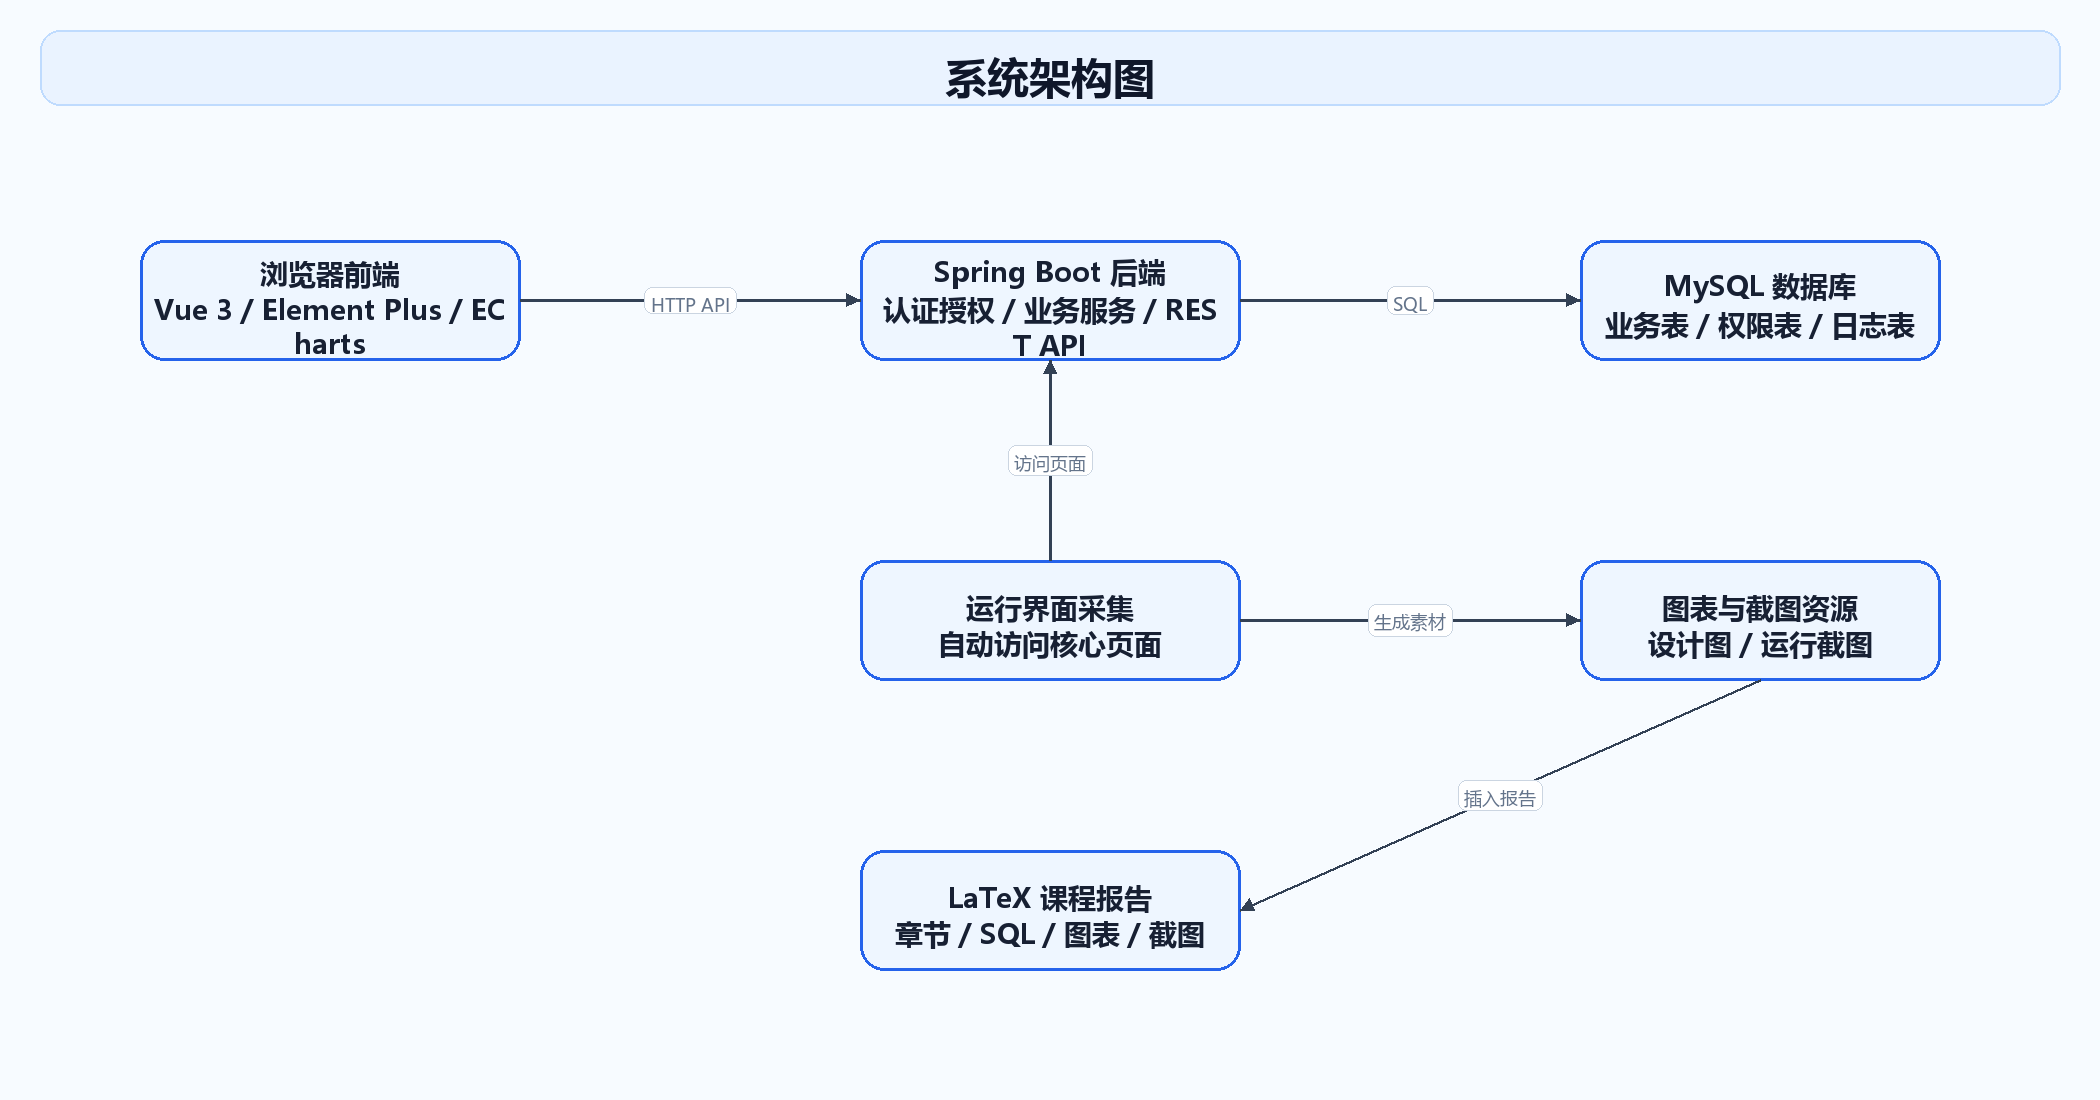
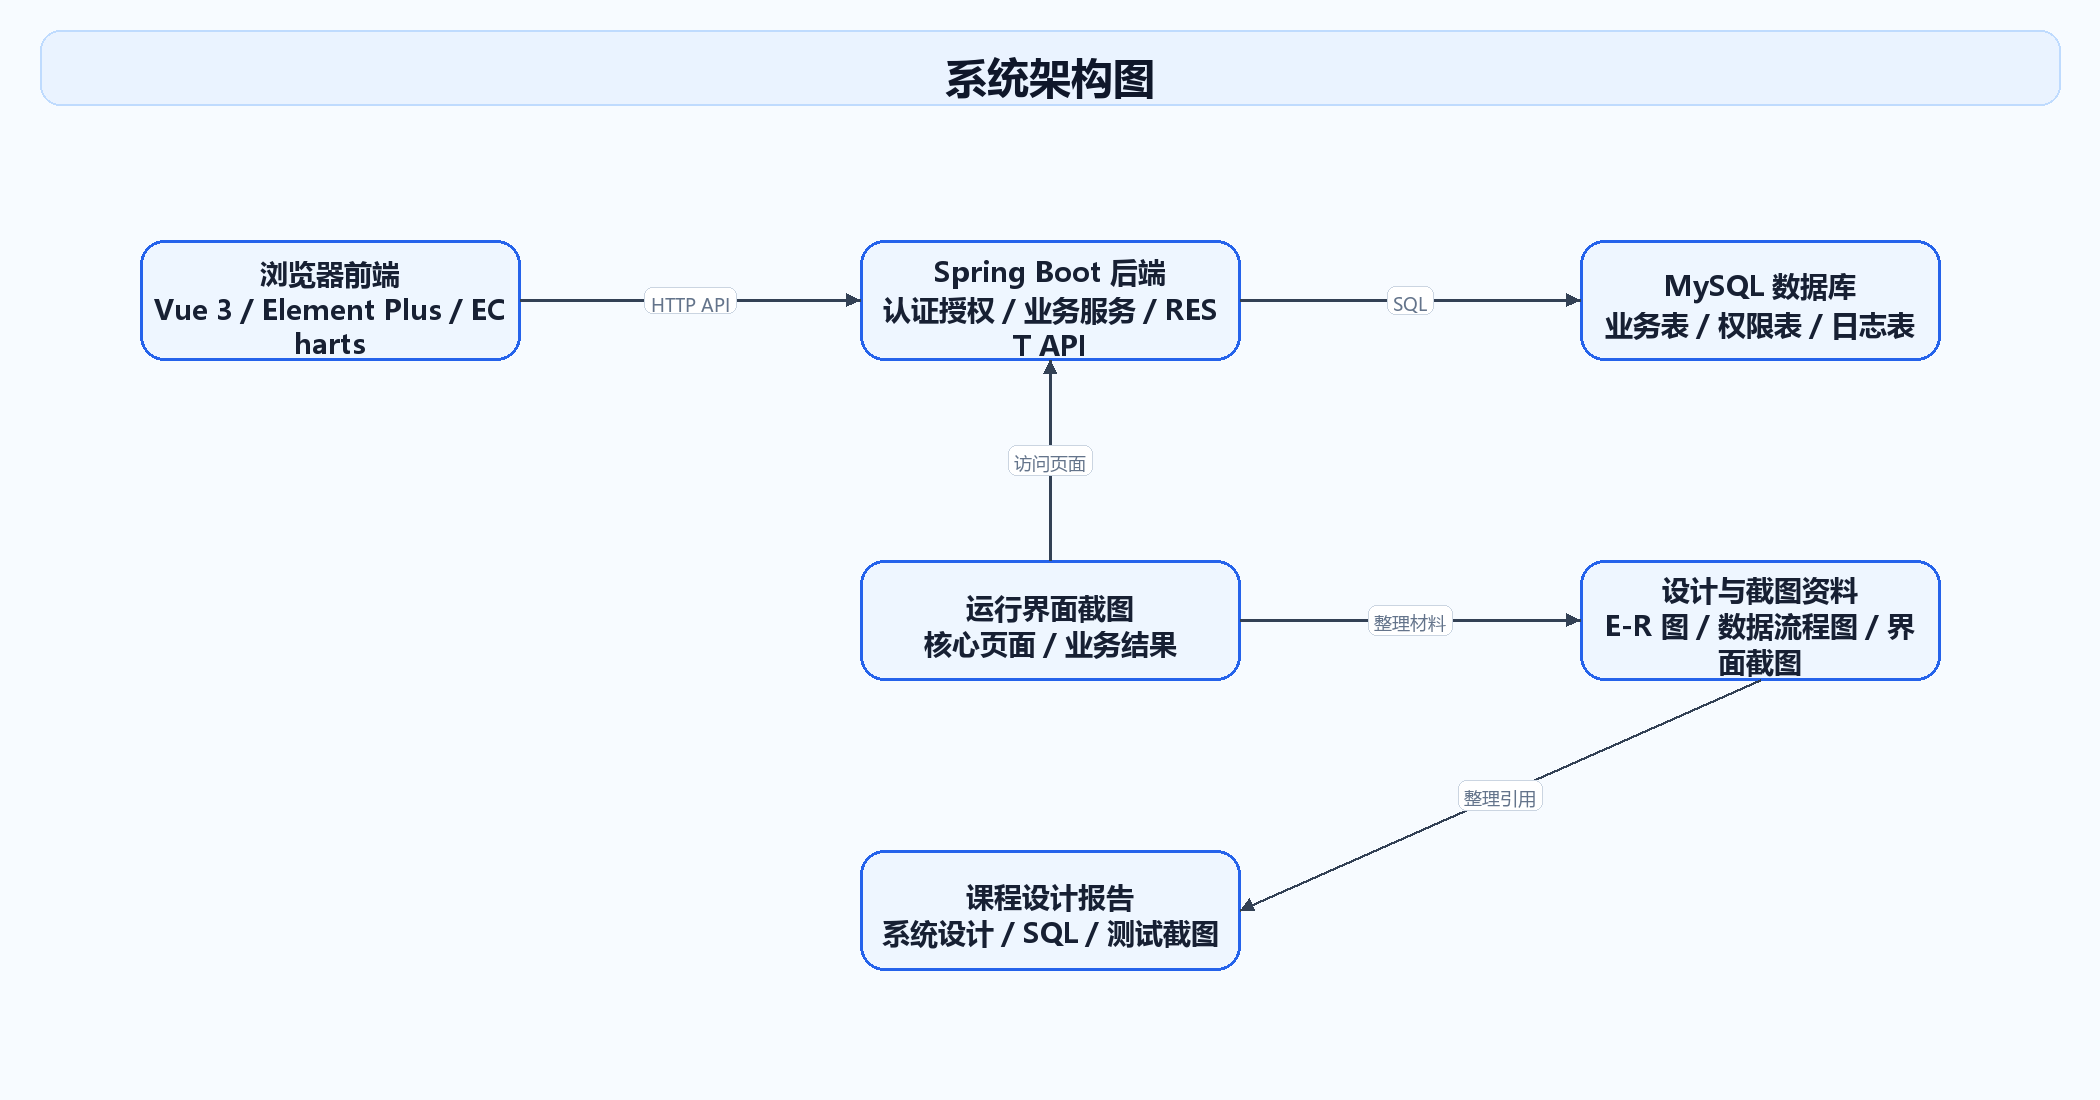
update

diff --git a/project/report-latex/chapters/03_system_design.tex b/project/report-latex/chapters/03_system_design.tex
@@ -3,7 +3,7 @@
 系统设计将需求分析结果转换为可实现的数据模型和系统结构。本章包括概念结构设计、E-R 图、逻辑结构设计、关系模式、系统功能模块图和其它设计图，保证概念模型、逻辑结构、系统接口和运行界面之间保持一致。
 
 \subsection{概念结构设计说明}
-概念结构设计阶段从业务流程中抽取实体和联系。核心业务实体包括 visitor、visit\_apply、approval\_record、pass\_code、access\_record、blacklist、campus\_gate 等；权限实体包括 sys\_user、sys\_role、sys\_permission 以及用户角色、角色权限中间表；支撑实体包括 notice、operation\_log、dict\_type、dict\_item、screenshot\_record 和 report\_record。设计时将“访客提交预约”作为主线，确保每个实体都能在核心流程中找到业务来源。
+概念结构设计阶段主要根据访客预约、审批流转、门岗通行和统计查询等业务过程抽取实体与联系。核心业务部分包括访客、预约申请、审批记录、通行凭证、出入校记录、黑名单和校门等实体；权限管理部分包括系统用户、角色、权限及其授权关系；系统支撑部分包括通知消息、操作日志、数据字典、截图记录和材料归档记录等实体。各实体围绕“访客提交预约申请”这一主线展开，能够覆盖从预约提交、审批确认、通行核验到访问归档的完整过程。
 \begin{longtable}{>{\raggedright\arraybackslash}p{0.300\textwidth}>{\raggedright\arraybackslash}p{0.640\textwidth}}
 \caption{主要实体及存在原因}\\
 \toprule
@@ -74,39 +74,24 @@ operation\_log & 保存关键业务操作日志，支撑审计和测试说明。
 \end{figure}
 \subsection{逻辑结构设计说明}
 逻辑结构设计将概念实体转换为 MySQL 关系表。实体表统一使用 \texttt{id} 作为主键，时间字段统一使用 \texttt{create\_time}、\texttt{update\_time}，软删除字段统一使用 \texttt{deleted}。多对多关系通过 sys\_user\_role 和 sys\_role\_permission 中间表表达；一对多关系通过外键字段或业务关联字段表达；预约、审批、通行和出入校状态通过状态字段表达。
-\begin{longtable}{>{\raggedright\arraybackslash}p{0.300\textwidth}>{\raggedright\arraybackslash}p{0.460\textwidth}>{\raggedright\arraybackslash}p{0.180\textwidth}}
-\caption{逻辑表结构摘要}\\
+\begin{longtable}{>{\raggedright\arraybackslash}p{0.140\textwidth}>{\raggedright\arraybackslash}p{0.270\textwidth}>{\raggedright\arraybackslash}p{0.360\textwidth}>{\raggedright\arraybackslash}p{0.170\textwidth}}
+\caption{主要关系表设计摘要}\\
 \toprule
-表名 & 关键字段摘要 & 说明 \\
+设计分组 & 主要关系表 & 设计重点 & 主要约束 \\
 \midrule
-系统用户表 & id BIGINT；username VARCHAR(50)；password\_hash VARCHAR(255)；real\_name VARCHAR(50)；phone VARCHAR(20)；email VARCHAR(100)；department\_id BIGINT；user\_type VARCHAR(30) & 数据库物理表，与关系模式和系统实现对象对应 \\
-角色表 & id BIGINT；role\_code VARCHAR(50)；role\_name VARCHAR(50)；role\_desc VARCHAR(255)；status VARCHAR(30)；create\_time DATETIME；update\_time DATETIME；deleted TINYINT & 数据库物理表，与关系模式和系统实现对象对应 \\
-权限表 & id BIGINT；permission\_code VARCHAR(100)；permission\_name VARCHAR(100)；permission\_type VARCHAR(30)；parent\_id BIGINT；route\_path VARCHAR(200)；component\_path VARCHAR(200)；api\_path VARCHAR(200) & 数据库物理表，与关系模式和系统实现对象对应 \\
-用户角色关联表 & id BIGINT；user\_id BIGINT；role\_id BIGINT；create\_time DATETIME；update\_time DATETIME；deleted TINYINT；PRIMARY KEY；UNIQUE KEY & 数据库物理表，与关系模式和系统实现对象对应 \\
-角色权限关联表 & id BIGINT；role\_id BIGINT；permission\_id BIGINT；create\_time DATETIME；update\_time DATETIME；deleted TINYINT；PRIMARY KEY；UNIQUE KEY & 数据库物理表，与关系模式和系统实现对象对应 \\
-部门表 & id BIGINT；parent\_id BIGINT；dept\_code VARCHAR(50)；dept\_name VARCHAR(100)；leader\_user\_id BIGINT；phone VARCHAR(20)；sort\_order INT；status VARCHAR(30) & 数据库物理表，与关系模式和系统实现对象对应 \\
-校门表 & id BIGINT；gate\_code VARCHAR(50)；gate\_name VARCHAR(100)；gate\_location VARCHAR(200)；gate\_type VARCHAR(30)；status VARCHAR(30)；remark VARCHAR(255)；create\_time DATETIME & 数据库物理表，与关系模式和系统实现对象对应 \\
-访客表 & id BIGINT；visitor\_name VARCHAR(50)；id\_type VARCHAR(30)；id\_number VARCHAR(50)；phone VARCHAR(20)；company VARCHAR(100)；gender VARCHAR(10)；visitor\_level VARCHAR(30) & 数据库物理表，与关系模式和系统实现对象对应 \\
-访客车辆表 & id BIGINT；visitor\_id BIGINT；plate\_no VARCHAR(20)；vehicle\_type VARCHAR(30)；color VARCHAR(30)；brand VARCHAR(50)；status VARCHAR(30)；create\_time DATETIME & 数据库物理表，与关系模式和系统实现对象对应 \\
-随行人员表 & id BIGINT；apply\_id BIGINT；companion\_name VARCHAR(50)；id\_type VARCHAR(30)；id\_number VARCHAR(50)；phone VARCHAR(20)；relation\_remark VARCHAR(100)；create\_time DATETIME & 数据库物理表，与关系模式和系统实现对象对应 \\
-预约申请表 & id BIGINT；apply\_no VARCHAR(50)；visitor\_id BIGINT；host\_user\_id BIGINT；department\_id BIGINT；vehicle\_id BIGINT；visit\_reason VARCHAR(255)；plan\_start\_time DATETIME & 数据库物理表，与关系模式和系统实现对象对应 \\
-审批记录表 & id BIGINT；apply\_id BIGINT；approval\_step VARCHAR(30)；approver\_user\_id BIGINT；approval\_result VARCHAR(30)；approval\_comment VARCHAR(255)；approval\_time DATETIME；sort\_order INT & 数据库物理表，与关系模式和系统实现对象对应 \\
-通行凭证表 & id BIGINT；apply\_id BIGINT；pass\_code VARCHAR(64)；qr\_content VARCHAR(500)；valid\_from DATETIME；valid\_to DATETIME；pass\_status VARCHAR(30)；used\_time DATETIME & 数据库物理表，与关系模式和系统实现对象对应 \\
-出入校记录表 & id BIGINT；apply\_id BIGINT；visitor\_id BIGINT；pass\_code\_id BIGINT；entry\_gate\_id BIGINT；exit\_gate\_id BIGINT；entry\_guard\_id BIGINT；exit\_guard\_id BIGINT & 数据库物理表，与关系模式和系统实现对象对应 \\
-黑名单表 & id BIGINT；visitor\_id BIGINT；id\_number VARCHAR(50)；phone VARCHAR(20)；reason VARCHAR(255)；level VARCHAR(30)；start\_time DATETIME；end\_time DATETIME & 数据库物理表，与关系模式和系统实现对象对应 \\
-通知消息表 & id BIGINT；receiver\_user\_id BIGINT；receiver\_type VARCHAR(30)；title VARCHAR(100)；content VARCHAR(1000)；business\_type VARCHAR(50)；business\_id BIGINT；read\_status VARCHAR(30) & 数据库物理表，与关系模式和系统实现对象对应 \\
-操作日志表 & id BIGINT；operator\_user\_id BIGINT；operator\_name VARCHAR(50)；module\_name VARCHAR(100)；operation\_type VARCHAR(50)；request\_method VARCHAR(10)；request\_url VARCHAR(255)；operation\_result VARCHAR(30) & 数据库物理表，与关系模式和系统实现对象对应 \\
-字典类型表 & id BIGINT；type\_code VARCHAR(50)；type\_name VARCHAR(100)；status VARCHAR(30)；remark VARCHAR(255)；create\_time DATETIME；update\_time DATETIME；deleted TINYINT & 数据库物理表，与关系模式和系统实现对象对应 \\
-字典项表 & id BIGINT；type\_id BIGINT；item\_code VARCHAR(50)；item\_name VARCHAR(100)；item\_value VARCHAR(100)；sort\_order INT；status VARCHAR(30)；remark VARCHAR(255) & 数据库物理表，与关系模式和系统实现对象对应 \\
-截图记录表 & id BIGINT；screenshot\_code VARCHAR(50)；page\_name VARCHAR(100)；route\_path VARCHAR(200)；role\_code VARCHAR(50)；file\_path VARCHAR(255)；description VARCHAR(255)；capture\_time DATETIME & 数据库物理表，与关系模式和系统实现对象对应 \\
-报告记录表 & id BIGINT；report\_code VARCHAR(50)；report\_name VARCHAR(100)；markdown\_path VARCHAR(255)；word\_path VARCHAR(255)；generate\_status VARCHAR(30)；generate\_time DATETIME；generated\_by BIGINT & 数据库物理表，与关系模式和系统实现对象对应 \\
+权限与组织 & 系统用户表、角色表、权限表、用户角色关联表、角色权限关联表、部门表 & 管理登录用户、部门归属、角色授权和菜单接口权限，是系统访问控制的基础。 & 用户与角色、角色与权限均采用中间表表示多对多关系。 \\
+访客基础 & 访客表、访客车辆表、随行人员表、黑名单表 & 保存访客身份、车辆、同行人员和风险名单，为预约申请和门岗核验提供基础数据。 & 访客身份、手机号、车辆和黑名单信息参与预约与核验约束。 \\
+预约审批 & 预约申请表、审批记录表、通行凭证表 & 保存从提交申请、被访人确认、部门审批到生成通行凭证的核心业务链路。 & 预约编号唯一，审批记录按环节和时间形成完整处理轨迹。 \\
+出入校管理 & 出入校记录表、校门表 & 记录门岗核验、入校登记、离校登记、当前在校和超时未离校等访问状态。 & 出入校记录关联预约、访客、通行凭证、校门和安保人员。 \\
+消息与日志 & 通知消息表、操作日志表 & 保存预约提醒、审批提醒、风险提醒和关键操作审计记录。 & 通知关联接收人和业务对象，日志记录操作人、模块和处理结果。 \\
+字典与材料 & 字典类型表、字典项表、截图记录表、报告记录表 & 维护状态、类型等基础字典，并保存课程展示材料的整理记录。 & 字典项归属于字典类型，材料记录保存编号、路径、状态和时间。 \\
 \bottomrule
 \end{longtable}
 \subsection{关系模式说明}
-系统关系模式与 MySQL 表结构一一对应。核心关系模式包括 visitor(id, visitor\_name, phone, id\_number, ...)、visit\_apply(id, apply\_no, visitor\_id, host\_user\_id, department\_id, apply\_status, access\_status, ...)、approval\_record(id, apply\_id, approval\_step, approval\_result, ...)、pass\_code(id, apply\_id, code, valid\_from, valid\_to, status, ...)、access\_record(id, apply\_id, visitor\_id, entry\_gate\_id, exit\_gate\_id, access\_status, ...)。这些关系模式既能表达实体属性，也能表达核心业务联系。
+系统关系模式由概念结构转换得到，重点保持实体、联系和业务约束之间的一致性。访客表保存校外人员身份基础信息；预约申请表保存一次访问申请，并关联访客、被访人、部门、车辆和访问时间；审批记录表保存被访人确认、部门审批等环节的处理结果；通行凭证表保存审批通过后的校验凭证和有效期；出入校记录表保存门岗核验后的入校、离校和异常状态；黑名单表用于记录限制入校或需要重点关注的风险人员。用户、角色和权限之间的多对多关系通过中间表表达，既保证权限控制清晰，也避免在单个实体中重复保存授权信息。
 
 \subsection{系统功能模块图}
-系统功能模块图按角色和业务域划分为访客端、被访人端、审批管理、门岗管理、访客记录、安全管理、统计报表、系统管理和自动化支撑等模块。
+系统功能模块图按角色和业务域划分为访客端、被访人端、审批管理、门岗管理、访客记录、安全管理、统计报表、系统管理和系统支撑等模块。
 \subsubsection{系统功能模块图}
 
 模块图展示系统功能分解及各模块边界，便于说明前端菜单、后端接口和权限控制的对应关系。
@@ -145,7 +130,7 @@ operation\_log & 保存关键业务操作日志，支撑审计和测试说明。
 
 \end{figure}\subsubsection{系统架构图}
 
-系统架构图展示浏览器前端、Spring Boot 后端、MySQL 数据库、Playwright 截图脚本和 LaTeX 报告生成脚本之间的关系。
+系统架构图展示浏览器前端、Spring Boot 后端、MySQL 数据库、运行界面截图和课程设计材料之间的关系。
 
 \begin{figure}[H]
 
@@ -166,17 +151,5 @@ operation\_log & 保存关键业务操作日志，支撑审计和测试说明。
   \includegraphics[width=0.94\textwidth]{figures/table_relation.png}
 
   \caption{数据库表关系图}
-
-\end{figure}\subsubsection{自动截图与报告生成流程图}
-
-自动化支撑流程图展示演示数据、页面截图和报告生成之间的衔接关系，说明系统如何形成可复核的课程设计材料。
-
-\begin{figure}[H]
-
-  \centering
-
-  \includegraphics[width=0.94\textwidth]{figures/automation_report_workflow.png}
-
-  \caption{自动截图与报告生成流程图}
 
 \end{figure}

diff --git a/project/scripts/generate_latex_report.py b/project/scripts/generate_latex_report.py
@@ -209,7 +209,7 @@ chapter01 += table('系统基本信息', ['项目', '内容'], [
     ['中文系统名称', '重庆邮电大学智慧访客预约与出入校管理系统'],
     ['英文系统名称', 'Smart Visitor Reservation and Campus Access Management System of Chongqing University of Posts and Telecommunications'],
     ['课程设计定位', '数据库原理期末大作业，重点展示需求分析、数据流程、E-R 建模、关系模式、SQL 查询和系统实现。'],
-    ['技术形态', 'Vue 3 前端、Spring Boot 3 后端、MySQL 8 数据库、Playwright 自动截图、LaTeX 自动报告。']
+    ['技术形态', 'Vue 3 前端、Spring Boot 3 后端、MySQL 8 数据库、运行界面截图和课程设计报告。']
 ], [0.24, 0.70])
 chapter01 += r'''
 \subsection{设计意图}
@@ -269,7 +269,7 @@ run_rows = [
     ['数据库', 'MySQL 8，InnoDB，utf8mb4 字符集。'],
     ['后端', 'JDK 17、Spring Boot 3、MyBatis Plus、JWT、Swagger/OpenAPI。'],
     ['前端', 'Node.js、Vue 3、Vite、Element Plus、Axios、Vue Router、ECharts。'],
-    ['自动化', 'Playwright 负责截图，XeLaTeX 负责编译最终报告。']
+    ['运行展示', '通过代表性页面截图记录系统主要功能的实现效果。']
 ]
 security_rows = [
     ['认证', '登录成功返回 JWT Token，后续请求携带 Authorization 请求头。'],
@@ -323,7 +323,7 @@ chapter03 = r'''
 系统设计将需求分析结果转换为可实现的数据模型和系统结构。本章包括概念结构设计、E-R 图、逻辑结构设计、关系模式、系统功能模块图和其它设计图，保证概念模型、逻辑结构、系统接口和运行界面之间保持一致。
 
 \subsection{概念结构设计说明}
-概念结构设计阶段从业务流程中抽取实体和联系。核心业务实体包括 visitor、visit\_apply、approval\_record、pass\_code、access\_record、blacklist、campus\_gate 等；权限实体包括 sys\_user、sys\_role、sys\_permission 以及用户角色、角色权限中间表；支撑实体包括 notice、operation\_log、dict\_type、dict\_item、screenshot\_record 和 report\_record。设计时将“访客提交预约”作为主线，确保每个实体都能在核心流程中找到业务来源。
+概念结构设计阶段主要根据访客预约、审批流转、门岗通行和统计查询等业务过程抽取实体与联系。核心业务部分包括访客、预约申请、审批记录、通行凭证、出入校记录、黑名单和校门等实体；权限管理部分包括系统用户、角色、权限及其授权关系；系统支撑部分包括通知消息、操作日志、数据字典、截图记录和材料归档记录等实体。各实体围绕“访客提交预约申请”这一主线展开，能够覆盖从预约提交、审批确认、通行核验到访问归档的完整过程。
 '''
 chapter03 += table('主要实体及存在原因', ['实体', '存在原因'], [
     ['visitor', '保存访客身份基础信息，避免同一访客多次预约时重复录入。'],
@@ -349,21 +349,28 @@ chapter03 += r'''
 \subsection{逻辑结构设计说明}
 逻辑结构设计将概念实体转换为 MySQL 关系表。实体表统一使用 \texttt{id} 作为主键，时间字段统一使用 \texttt{create\_time}、\texttt{update\_time}，软删除字段统一使用 \texttt{deleted}。多对多关系通过 sys\_user\_role 和 sys\_role\_permission 中间表表达；一对多关系通过外键字段或业务关联字段表达；预约、审批、通行和出入校状态通过状态字段表达。
 '''
-chapter03 += table('逻辑表结构摘要', ['表名', '关键字段摘要', '说明'], summary_rows, [0.30, 0.46, 0.18])
+logic_summary_rows = [
+    ['权限与组织', '系统用户表、角色表、权限表、用户角色关联表、角色权限关联表、部门表', '管理登录用户、部门归属、角色授权和菜单接口权限，是系统访问控制的基础。', '用户与角色、角色与权限均采用中间表表示多对多关系。'],
+    ['访客基础', '访客表、访客车辆表、随行人员表、黑名单表', '保存访客身份、车辆、同行人员和风险名单，为预约申请和门岗核验提供基础数据。', '访客身份、手机号、车辆和黑名单信息参与预约与核验约束。'],
+    ['预约审批', '预约申请表、审批记录表、通行凭证表', '保存从提交申请、被访人确认、部门审批到生成通行凭证的核心业务链路。', '预约编号唯一，审批记录按环节和时间形成完整处理轨迹。'],
+    ['出入校管理', '出入校记录表、校门表', '记录门岗核验、入校登记、离校登记、当前在校和超时未离校等访问状态。', '出入校记录关联预约、访客、通行凭证、校门和安保人员。'],
+    ['消息与日志', '通知消息表、操作日志表', '保存预约提醒、审批提醒、风险提醒和关键操作审计记录。', '通知关联接收人和业务对象，日志记录操作人、模块和处理结果。'],
+    ['字典与材料', '字典类型表、字典项表、截图记录表、报告记录表', '维护状态、类型等基础字典，并保存课程展示材料的整理记录。', '字典项归属于字典类型，材料记录保存编号、路径、状态和时间。'],
+]
+chapter03 += table('主要关系表设计摘要', ['设计分组', '主要关系表', '设计重点', '主要约束'], logic_summary_rows, [0.14, 0.27, 0.36, 0.17])
 chapter03 += r'''
 \subsection{关系模式说明}
-系统关系模式与 MySQL 表结构一一对应。核心关系模式包括 visitor(id, visitor\_name, phone, id\_number, ...)、visit\_apply(id, apply\_no, visitor\_id, host\_user\_id, department\_id, apply\_status, access\_status, ...)、approval\_record(id, apply\_id, approval\_step, approval\_result, ...)、pass\_code(id, apply\_id, code, valid\_from, valid\_to, status, ...)、access\_record(id, apply\_id, visitor\_id, entry\_gate\_id, exit\_gate\_id, access\_status, ...)。这些关系模式既能表达实体属性，也能表达核心业务联系。
+系统关系模式由概念结构转换得到，重点保持实体、联系和业务约束之间的一致性。访客表保存校外人员身份基础信息；预约申请表保存一次访问申请，并关联访客、被访人、部门、车辆和访问时间；审批记录表保存被访人确认、部门审批等环节的处理结果；通行凭证表保存审批通过后的校验凭证和有效期；出入校记录表保存门岗核验后的入校、离校和异常状态；黑名单表用于记录限制入校或需要重点关注的风险人员。用户、角色和权限之间的多对多关系通过中间表表达，既保证权限控制清晰，也避免在单个实体中重复保存授权信息。
 
 \subsection{系统功能模块图}
-系统功能模块图按角色和业务域划分为访客端、被访人端、审批管理、门岗管理、访客记录、安全管理、统计报表、系统管理和自动化支撑等模块。
+系统功能模块图按角色和业务域划分为访客端、被访人端、审批管理、门岗管理、访客记录、安全管理、统计报表、系统管理和系统支撑等模块。
 '''
 chapter03 += diagram_block('系统功能模块图', 'diagrams/system_module.mmd', '模块图展示系统功能分解及各模块边界，便于说明前端菜单、后端接口和权限控制的对应关系。', 'mmdc -i diagrams/system_module.mmd -o report-latex/figures/system_module.pdf')
 chapter03 += r'\subsection{其它设计图}'
 chapter03 += diagram_block('访客预约审批流程图', 'diagrams/visitor_workflow.mmd', '访客预约审批流程图展示从预约提交到审批通过或拒绝的状态流转，并体现黑名单拦截、被访人拒绝和部门审批拒绝等异常分支。', 'mmdc -i diagrams/visitor_workflow.mmd -o report-latex/figures/visitor_workflow.pdf')
 chapter03 += diagram_block('门岗核验入校流程图', 'diagrams/gate_check_workflow.mmd', '门岗核验流程图展示通行码核验、时间有效性检查、黑名单检查、入校登记、离校登记和超时未离校处理。', 'mmdc -i diagrams/gate_check_workflow.mmd -o report-latex/figures/gate_check_workflow.pdf')
-chapter03 += diagram_block('系统架构图', 'diagrams/system_architecture.mmd', '系统架构图展示浏览器前端、Spring Boot 后端、MySQL 数据库、Playwright 截图脚本和 LaTeX 报告生成脚本之间的关系。', 'mmdc -i diagrams/system_architecture.mmd -o report-latex/figures/system_architecture.pdf')
+chapter03 += diagram_block('系统架构图', 'diagrams/system_architecture.mmd', '系统架构图展示浏览器前端、Spring Boot 后端、MySQL 数据库、运行界面截图和课程设计材料之间的关系。', 'mmdc -i diagrams/system_architecture.mmd -o report-latex/figures/system_architecture.pdf')
 chapter03 += diagram_block('数据库表关系图', 'diagrams/table_relation.mmd', '数据库表关系图适合放入附录，用于展示主外键关系和表间依赖。', 'mmdc -i diagrams/table_relation.mmd -o report-latex/figures/table_relation.pdf')
-chapter03 += diagram_block('自动截图与报告生成流程图', 'diagrams/automation_report_workflow.mmd', '自动化支撑流程图展示演示数据、页面截图和报告生成之间的衔接关系，说明系统如何形成可复核的课程设计材料。', 'mmdc -i diagrams/automation_report_workflow.mmd -o report-latex/figures/automation_report_workflow.pdf')
 write(chapters / '03_system_design.tex', chapter03)
 
 # 04 detail design
@@ -410,20 +417,20 @@ test_rows = [
     ['TC-11', '入校登记', '核验通过后登记入校', '生成或更新 access_record，状态为已入校'],
     ['TC-12', '离校登记', '对已入校访客办理离校', '记录离校时间，禁止重复离校'],
     ['TC-13', '统计报表', '访问首页和统计报表页', '趋势、排行、状态分布等图表均有数据'],
-    ['TC-14', '运行界面采集', '执行自动化演示流程', '形成 19 张代表性运行界面截图'],
-    ['TC-15', 'LaTeX 报告', '执行 xelatex main.tex 两次', '生成 report-latex/main.pdf']
+    ['TC-14', '运行界面截图', '根据核心页面整理运行截图', '形成 19 张代表性运行界面截图'],
+    ['TC-15', '课程报告检查', '检查章节结构、图表引用和运行截图', '报告结构完整，图表和截图能够正常展示']
 ]
 platform_rows = [
     ['数据库', 'MySQL 8', '支持事务、外键、索引、utf8mb4 字符集，适合课程设计展示关系模型。'],
     ['后端', 'Spring Boot 3 + MyBatis Plus + JWT', '便于快速构建 REST API、权限认证、统一返回和数据访问层。'],
     ['前端', 'Vue 3 + Vite + Element Plus + ECharts', '适合构建课程答辩演示页面、表格表单和统计图表。'],
-    ['截图', 'Playwright / 系统 Chrome', '可自动登录系统并截图，保证报告运行界面一致。'],
-    ['报告', 'LaTeX + XeLaTeX', '中文排版稳定，适合插入长表格、SQL 代码和运行截图。']
+    ['运行截图', '浏览器截图工具', '用于采集系统代表性运行界面，展示登录、预约、审批、门岗核验、统计报表等实现效果。'],
+    ['报告撰写', '课程设计报告文档', '用于整理系统定义、需求分析、数据库设计、SQL 查询、测试结果和运行截图。']
 ]
 chapter05 = r'''
 \section{系统实现与测试}
 \subsection{本章概述}
-本章说明系统的开发平台、后端实现、前端实现、数据库实现、自动截图方案和测试结果，并插入代表性运行界面截图。截图由脚本自动生成，能够直接服务于课程设计报告和答辩展示。
+本章说明系统的开发平台、后端实现、前端实现、数据库实现和测试结果，并插入代表性运行界面截图。通过测试用例和界面展示，可以验证系统在登录认证、权限控制、访客预约、审批流转、门岗核验、出入校登记、黑名单管理和统计报表等方面的实现效果。
 
 \subsection{开发平台和工具选择}
 '''
@@ -438,11 +445,11 @@ chapter05 += r'''
 \subsection{数据库实现说明}
 数据库采用 MySQL 8 作为持久化平台，围绕用户权限、访客预约、审批流转、通行凭证、出入校记录、黑名单、通知消息和操作日志等对象建立关系表。核心表均设置主键、必要外键、业务唯一约束、索引、状态字段和时间字段，以保证数据完整性、查询效率和业务流转可追踪性。
 
-\subsection{自动截图说明}
-系统提供自动化截图能力，用于在统一演示数据基础上记录登录、首页驾驶舱、预约申请、审批处理、门岗核验、出入校登记、黑名单管理、统计报表和系统管理等代表性界面。该过程保证报告中的运行截图来自同一套业务数据，便于审查系统功能的完整性和一致性。
+\subsection{运行截图说明}
+本报告选取系统运行过程中的代表性界面作为截图材料，覆盖登录、首页驾驶舱、预约申请、审批处理、门岗核验、出入校登记、黑名单管理、统计报表和系统管理等页面。截图内容与演示数据相对应，能够直观展示系统功能完整性、页面布局和关键业务状态。
 
 \subsection{测试方法}
-测试采用数据库初始化测试、接口启动测试、前端页面测试、角色权限测试、核心流程测试、统计报表测试、自动截图测试和 LaTeX 报告编译测试相结合的方式。重点验证数据结构、业务状态、接口响应、页面展示和报告材料之间是否保持一致。
+测试采用数据库初始化测试、接口启动测试、前端页面测试、角色权限测试、核心流程测试、统计报表测试、运行界面截图检查和报告完整性检查相结合的方式。重点验证数据结构、业务状态、接口响应、页面展示和课程报告材料之间是否保持一致。
 '''
 chapter05 += table('系统测试用例摘要', ['编号', '测试名称', '操作/输入', '预期结果'], test_rows, [0.12, 0.20, 0.34, 0.28])
 chapter05 += r'''
@@ -465,9 +472,9 @@ write(chapters / '05_implementation_testing.tex', chapter05)
 
 chapter06 = r'''
 \section{总结}
-本课程设计围绕“重庆邮电大学智慧访客预约与出入校管理系统”完成了从需求分析、概念结构设计、逻辑结构设计、MySQL 建库建表、后端接口、前端页面、权限控制、核心业务流程、统计报表、自动截图到 LaTeX 报告生成的完整实践。系统以访客预约为主线，将访客信息、预约申请、审批记录、通行凭证、出入校记录、黑名单、用户权限和系统日志统一纳入数据库管理，能够较好地体现数据库系统在校园安全管理场景中的建模、约束、查询和应用价值。
+本课程设计围绕“重庆邮电大学智慧访客预约与出入校管理系统”完成了从需求分析、概念结构设计、逻辑结构设计、MySQL 建库建表、后端接口、前端页面、权限控制、核心业务流程、统计报表、运行界面截图到课程报告撰写的完整实践。系统以访客预约为主线，将访客信息、预约申请、审批记录、通行凭证、出入校记录、黑名单、用户权限和系统日志统一纳入数据库管理，能够较好地体现数据库系统在校园安全管理场景中的建模、约束、查询和应用价值。
 
-在数据库设计方面，系统明确了实体、关系、主键、外键、唯一约束、索引和状态字段，核心表结构能够覆盖从预约提交到访问归档的完整流程。在系统实现方面，后端采用 Spring Boot 3、MyBatis Plus、MySQL 和 JWT，前端采用 Vue 3、Element Plus、Axios、Vue Router 和 ECharts，页面能够展示预约、审批、核验、出入校、黑名单、统计报表和系统管理等核心功能。在自动化方面，项目提供 Playwright 截图脚本和 LaTeX 报告项目，便于将运行界面、SQL、图表和测试说明整合为最终课程设计报告。
+在数据库设计方面，系统明确了实体、关系、主键、外键、唯一约束、索引和状态字段，核心表结构能够覆盖从预约提交到访问归档的完整流程。在系统实现方面，后端采用 Spring Boot 3、MyBatis Plus、MySQL 和 JWT，前端采用 Vue 3、Element Plus、Axios、Vue Router 和 ECharts，页面能够展示预约、审批、核验、出入校、黑名单、统计报表和系统管理等核心功能。在材料整理方面，项目保留了运行界面截图、SQL 示例、设计图和测试说明，便于在课程报告中完整展示系统设计与实现结果。
 
 总体来看，本系统从数据库课程设计要求出发，完成了系统定义、需求分析、数据流程分析、概念结构设计、逻辑结构设计、SQL 详细设计、系统实现和测试验证等环节。设计结果能够覆盖校园访客预约与出入校管理的主要业务场景，报告中的图表、关系模式、SQL 查询和运行界面能够共同说明系统的数据组织方式与实际运行效果。
 '''
@@ -547,7 +554,7 @@ main = r'''
 \input{styles/report-style.tex}
 
 \title{重庆邮电大学智慧访客预约与出入校管理系统\\数据库原理课程设计报告}
-\author{姓名：蔡锦艺\\学号：2024211513\\班级：04892401\\数据库原理期末大作业}
+\author{姓名：蔡锦艺\\学号：2024211513\\班级：04892401\\本数据库系统的设计、实现与课程报告撰写均由本人独立完成\\数据库原理期末大作业}
 \date{\today}
 
 \begin{document}

diff --git a/project/report-latex/chapters/05_implementation_testing.tex b/project/report-latex/chapters/05_implementation_testing.tex
@@ -1,6 +1,6 @@
 \section{系统实现与测试}
 \subsection{本章概述}
-本章说明系统的开发平台、后端实现、前端实现、数据库实现、自动截图方案和测试结果，并插入代表性运行界面截图。截图由脚本自动生成，能够直接服务于课程设计报告和答辩展示。
+本章说明系统的开发平台、后端实现、前端实现、数据库实现和测试结果，并插入代表性运行界面截图。通过测试用例和界面展示，可以验证系统在登录认证、权限控制、访客预约、审批流转、门岗核验、出入校登记、黑名单管理和统计报表等方面的实现效果。
 
 \subsection{开发平台和工具选择}
 \begin{longtable}{>{\raggedright\arraybackslash}p{0.160\textwidth}>{\raggedright\arraybackslash}p{0.280\textwidth}>{\raggedright\arraybackslash}p{0.500\textwidth}}
@@ -11,8 +11,8 @@
 数据库 & MySQL 8 & 支持事务、外键、索引、utf8mb4 字符集，适合课程设计展示关系模型。 \\
 后端 & Spring Boot 3 + MyBatis Plus + JWT & 便于快速构建 REST API、权限认证、统一返回和数据访问层。 \\
 前端 & Vue 3 + Vite + Element Plus + ECharts & 适合构建课程答辩演示页面、表格表单和统计图表。 \\
-截图 & Playwright / 系统 Chrome & 可自动登录系统并截图，保证报告运行界面一致。 \\
-报告 & LaTeX + XeLaTeX & 中文排版稳定，适合插入长表格、SQL 代码和运行截图。 \\
+运行截图 & 浏览器截图工具 & 用于采集系统代表性运行界面，展示登录、预约、审批、门岗核验、统计报表等实现效果。 \\
+报告撰写 & 课程设计报告文档 & 用于整理系统定义、需求分析、数据库设计、SQL 查询、测试结果和运行截图。 \\
 \bottomrule
 \end{longtable}
 \subsection{后端实现说明}
@@ -24,11 +24,11 @@
 \subsection{数据库实现说明}
 数据库采用 MySQL 8 作为持久化平台，围绕用户权限、访客预约、审批流转、通行凭证、出入校记录、黑名单、通知消息和操作日志等对象建立关系表。核心表均设置主键、必要外键、业务唯一约束、索引、状态字段和时间字段，以保证数据完整性、查询效率和业务流转可追踪性。
 
-\subsection{自动截图说明}
-系统提供自动化截图能力，用于在统一演示数据基础上记录登录、首页驾驶舱、预约申请、审批处理、门岗核验、出入校登记、黑名单管理、统计报表和系统管理等代表性界面。该过程保证报告中的运行截图来自同一套业务数据，便于审查系统功能的完整性和一致性。
+\subsection{运行截图说明}
+本报告选取系统运行过程中的代表性界面作为截图材料，覆盖登录、首页驾驶舱、预约申请、审批处理、门岗核验、出入校登记、黑名单管理、统计报表和系统管理等页面。截图内容与演示数据相对应，能够直观展示系统功能完整性、页面布局和关键业务状态。
 
 \subsection{测试方法}
-测试采用数据库初始化测试、接口启动测试、前端页面测试、角色权限测试、核心流程测试、统计报表测试、自动截图测试和 LaTeX 报告编译测试相结合的方式。重点验证数据结构、业务状态、接口响应、页面展示和报告材料之间是否保持一致。
+测试采用数据库初始化测试、接口启动测试、前端页面测试、角色权限测试、核心流程测试、统计报表测试、运行界面截图检查和报告完整性检查相结合的方式。重点验证数据结构、业务状态、接口响应、页面展示和课程报告材料之间是否保持一致。
 \begin{longtable}{>{\raggedright\arraybackslash}p{0.120\textwidth}>{\raggedright\arraybackslash}p{0.200\textwidth}>{\raggedright\arraybackslash}p{0.340\textwidth}>{\raggedright\arraybackslash}p{0.280\textwidth}}
 \caption{系统测试用例摘要}\\
 \toprule
@@ -47,8 +47,8 @@ TC-10 & 门岗核验 & guard01 输入通行码或预约编号 & 返回允许/拒
 TC-11 & 入校登记 & 核验通过后登记入校 & 生成或更新 access\_record，状态为已入校 \\
 TC-12 & 离校登记 & 对已入校访客办理离校 & 记录离校时间，禁止重复离校 \\
 TC-13 & 统计报表 & 访问首页和统计报表页 & 趋势、排行、状态分布等图表均有数据 \\
-TC-14 & 运行界面采集 & 执行自动化演示流程 & 形成 19 张代表性运行界面截图 \\
-TC-15 & LaTeX 报告 & 执行 xelatex main.tex 两次 & 生成 report-latex/main.pdf \\
+TC-14 & 运行界面截图 & 根据核心页面整理运行截图 & 形成 19 张代表性运行界面截图 \\
+TC-15 & 课程报告检查 & 检查章节结构、图表引用和运行截图 & 报告结构完整，图表和截图能够正常展示 \\
 \bottomrule
 \end{longtable}
 \subsection{代表性运行界面}

diff --git a/project/scripts/generate_report_diagrams.py b/project/scripts/generate_report_diagrams.py
@@ -452,14 +452,14 @@ def system_architecture():
     c.process((140,240,520,360),'浏览器前端\nVue 3 / Element Plus / ECharts')
     c.process((860,240,1240,360),'Spring Boot 后端\n认证授权 / 业务服务 / REST API')
     c.process((1580,240,1940,360),'MySQL 数据库\n业务表 / 权限表 / 日志表')
-    c.process((860,560,1240,680),'运行界面采集\n自动访问核心页面')
-    c.process((1580,560,1940,680),'图表与截图资源\n设计图 / 运行截图')
-    c.process((860,850,1240,970),'LaTeX 课程报告\n章节 / SQL / 图表 / 截图')
+    c.process((860,560,1240,680),'运行界面截图\n核心页面 / 业务结果')
+    c.process((1580,560,1940,680),'设计与截图资料\nE-R 图 / 数据流程图 / 界面截图')
+    c.process((860,850,1240,970),'课程设计报告\n系统设计 / SQL / 测试截图')
     c.line((520,300),(860,300),label='HTTP API')
     c.line((1240,300),(1580,300),label='SQL')
     c.line((1050,560),(1050,360),label='访问页面')
-    c.line((1240,620),(1580,620),label='生成素材')
-    c.line((1760,680),(1240,910),label='插入报告')
+    c.line((1240,620),(1580,620),label='整理材料')
+    c.line((1760,680),(1240,910),label='整理引用')
     return c.save('system_architecture')
 
 

diff --git a/project/report-latex/chapters/06_summary.tex b/project/report-latex/chapters/06_summary.tex
@@ -1,6 +1,6 @@
 \section{总结}
-本课程设计围绕“重庆邮电大学智慧访客预约与出入校管理系统”完成了从需求分析、概念结构设计、逻辑结构设计、MySQL 建库建表、后端接口、前端页面、权限控制、核心业务流程、统计报表、自动截图到 LaTeX 报告生成的完整实践。系统以访客预约为主线，将访客信息、预约申请、审批记录、通行凭证、出入校记录、黑名单、用户权限和系统日志统一纳入数据库管理，能够较好地体现数据库系统在校园安全管理场景中的建模、约束、查询和应用价值。
+本课程设计围绕“重庆邮电大学智慧访客预约与出入校管理系统”完成了从需求分析、概念结构设计、逻辑结构设计、MySQL 建库建表、后端接口、前端页面、权限控制、核心业务流程、统计报表、运行界面截图到课程报告撰写的完整实践。系统以访客预约为主线，将访客信息、预约申请、审批记录、通行凭证、出入校记录、黑名单、用户权限和系统日志统一纳入数据库管理，能够较好地体现数据库系统在校园安全管理场景中的建模、约束、查询和应用价值。
 
-在数据库设计方面，系统明确了实体、关系、主键、外键、唯一约束、索引和状态字段，核心表结构能够覆盖从预约提交到访问归档的完整流程。在系统实现方面，后端采用 Spring Boot 3、MyBatis Plus、MySQL 和 JWT，前端采用 Vue 3、Element Plus、Axios、Vue Router 和 ECharts，页面能够展示预约、审批、核验、出入校、黑名单、统计报表和系统管理等核心功能。在自动化方面，项目提供 Playwright 截图脚本和 LaTeX 报告项目，便于将运行界面、SQL、图表和测试说明整合为最终课程设计报告。
+在数据库设计方面，系统明确了实体、关系、主键、外键、唯一约束、索引和状态字段，核心表结构能够覆盖从预约提交到访问归档的完整流程。在系统实现方面，后端采用 Spring Boot 3、MyBatis Plus、MySQL 和 JWT，前端采用 Vue 3、Element Plus、Axios、Vue Router 和 ECharts，页面能够展示预约、审批、核验、出入校、黑名单、统计报表和系统管理等核心功能。在材料整理方面，项目保留了运行界面截图、SQL 示例、设计图和测试说明，便于在课程报告中完整展示系统设计与实现结果。
 
 总体来看，本系统从数据库课程设计要求出发，完成了系统定义、需求分析、数据流程分析、概念结构设计、逻辑结构设计、SQL 详细设计、系统实现和测试验证等环节。设计结果能够覆盖校园访客预约与出入校管理的主要业务场景，报告中的图表、关系模式、SQL 查询和运行界面能够共同说明系统的数据组织方式与实际运行效果。

diff --git a/project/report-latex/chapters/01_system_definition.tex b/project/report-latex/chapters/01_system_definition.tex
@@ -9,7 +9,7 @@
 中文系统名称 & 重庆邮电大学智慧访客预约与出入校管理系统 \\
 英文系统名称 & Smart Visitor Reservation and Campus Access Management System of Chongqing University of Posts and Telecommunications \\
 课程设计定位 & 数据库原理期末大作业，重点展示需求分析、数据流程、E-R 建模、关系模式、SQL 查询和系统实现。 \\
-技术形态 & Vue 3 前端、Spring Boot 3 后端、MySQL 8 数据库、Playwright 自动截图、LaTeX 自动报告。 \\
+技术形态 & Vue 3 前端、Spring Boot 3 后端、MySQL 8 数据库、运行界面截图和课程设计报告。 \\
 \bottomrule
 \end{longtable}
 \subsection{设计意图}

diff --git a/project/report-latex/chapters/02_requirement_analysis.tex b/project/report-latex/chapters/02_requirement_analysis.tex
@@ -53,7 +53,7 @@ FR-10 & 系统管理 & 维护用户、角色、权限、部门、校门、字典
 数据库 & MySQL 8，InnoDB，utf8mb4 字符集。 \\
 后端 & JDK 17、Spring Boot 3、MyBatis Plus、JWT、Swagger/OpenAPI。 \\
 前端 & Node.js、Vue 3、Vite、Element Plus、Axios、Vue Router、ECharts。 \\
-自动化 & Playwright 负责截图，XeLaTeX 负责编译最终报告。 \\
+运行展示 & 通过代表性页面截图记录系统主要功能的实现效果。 \\
 \bottomrule
 \end{longtable}\subsection{安全需求}
 \begin{longtable}{>{\raggedright\arraybackslash}p{0.200\textwidth}>{\raggedright\arraybackslash}p{0.740\textwidth}}

diff --git a/project/report-latex/main.tex b/project/report-latex/main.tex
@@ -2,7 +2,7 @@
 \input{styles/report-style.tex}
 
 \title{重庆邮电大学智慧访客预约与出入校管理系统\\数据库原理课程设计报告}
-\author{姓名：蔡锦艺\\学号：2024211513\\班级：04892401\\数据库原理期末大作业}
+\author{姓名：蔡锦艺\\学号：2024211513\\班级：04892401\\本数据库系统的设计、实现与课程报告撰写均由本人独立完成\\数据库原理期末大作业}
 \date{\today}
 
 \begin{document}